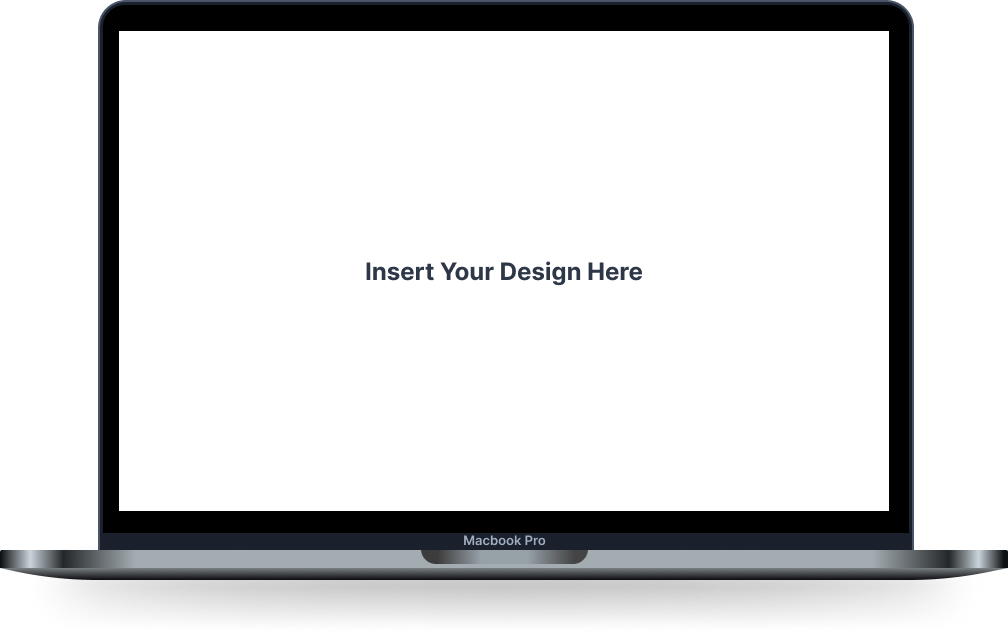
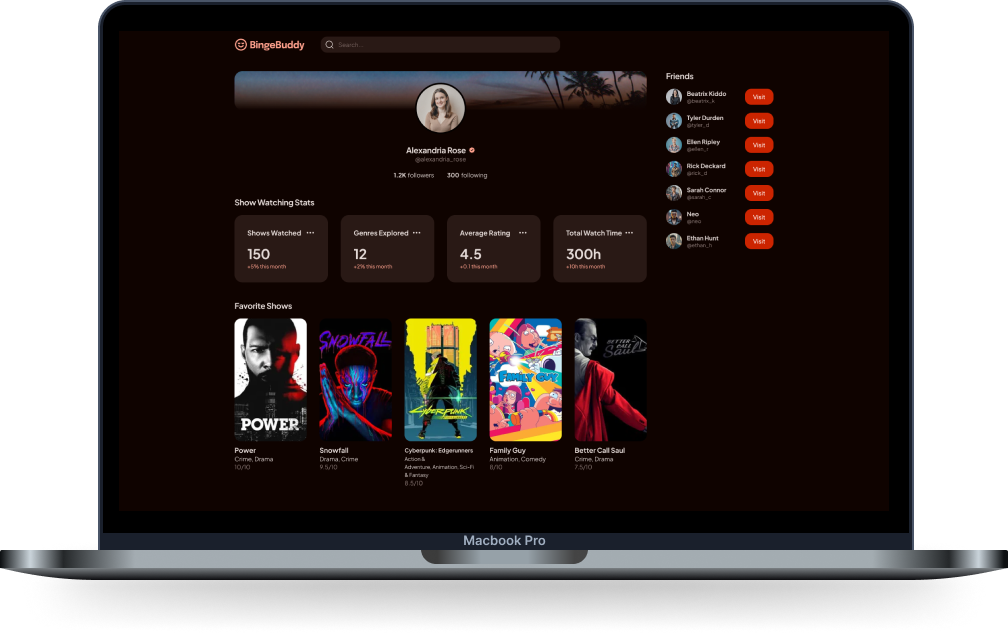
updated images preview for projects - temp removed landing page

diff --git a/src/App.jsx b/src/App.jsx
@@ -12,8 +12,7 @@ function App() {
     <Router>
       <div className="App">
         <Routes>
-          <Route path="/" element={<LandingPage />} />
-          <Route path="/home" element={<Home />} />
+          <Route path="/" element={<Home />} />
           <Route path="/about" element={<About />} />
           <Route path="/gallery" element={<Gallery />} />
           <Route path="/bingebuddy" element={<Bingebuddy />} />
